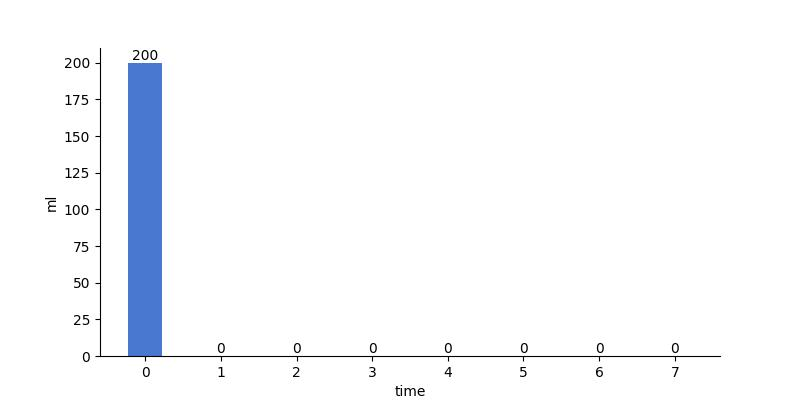
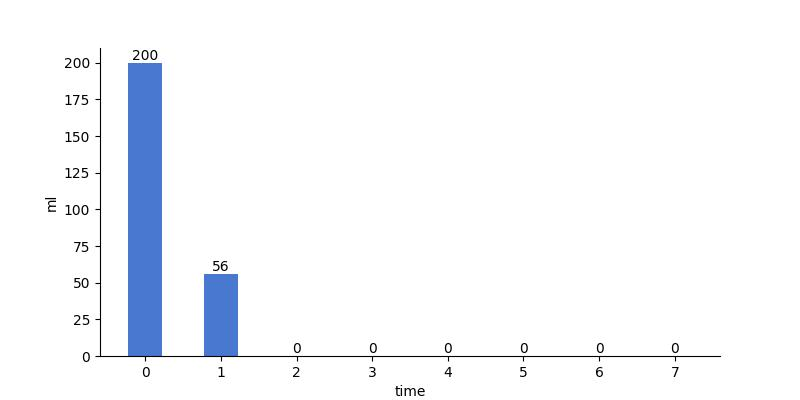
generated readme

Changed region(s): [[0.25, 0.66, 0.3125, 0.9]]

diff --git a/README.md b/README.md
@@ -5,12 +5,12 @@
 
 | 今日总饮水量 | 每小时平均饮水量 |
 | :----: | :----: |
-| 200 | 200 |
+| 256 | 128 |
 </div>
 
-| 日期 | 00:56:11 |
-| :----: | :----: |
-| 2022-11-09 | 200 |
+| 日期 | 00:56:11 | 01:29:21 |
+| :----: | :----: | :----: |
+| 2022-11-09 | 200 | 56 |
 
 # 近30日饮水数据
 
